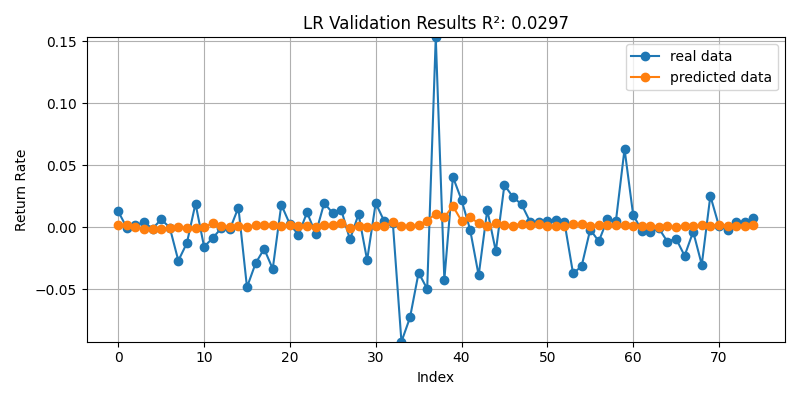
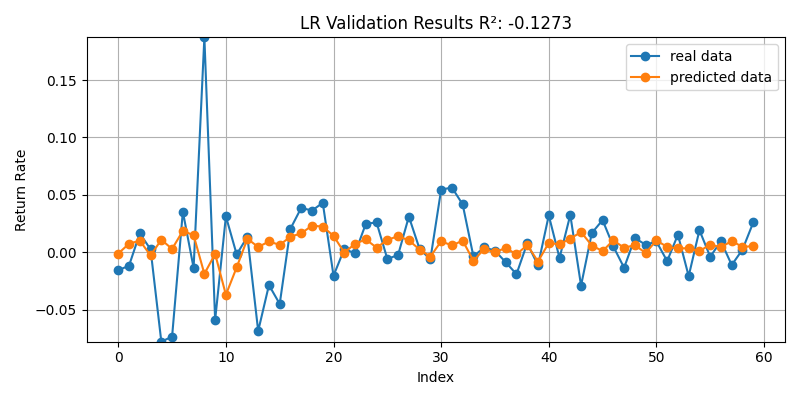
added indicators such as RSI, MACD, SMA.

diff --git a/Quant Research/features.py b/Quant Research/features.py
@@ -1,0 +1,38 @@
+import pandas as pd
+import pandas_ta as ta
+
+
+class FeatureEngineer:
+    def __init__(self, df: pd.DataFrame):
+
+        self.df = df.copy()
+
+    def add_momentum_indicators(self):
+        self.df['RSI_14'] = ta.rsi(self.df['Close'], length=14)
+
+        macd = ta.macd(self.df['Close'], fast=12, slow=26, signal=9)
+        self.df[['MACD_12_26_9', 'MACD_signal', 'MACD_hist']] = macd
+        return self
+
+    def add_volatility_indicators(self):
+        self.df['ATR_14'] = ta.atr(
+            self.df['High'], self.df['Low'], self.df['Close'], length=14)
+
+        return self
+
+    def add_trend_indicators(self):
+        self.df['SMA_20'] = ta.sma(self.df['Close'], length=20)
+        self.df['SMA_100'] = ta.sma(self.df['Close'], length=100)
+        self.df['SMA_ratio'] = self.df['SMA_20'] / self.df['SMA_100']
+
+        return self
+
+    def generate_features(self):
+        self.add_momentum_indicators()
+        self.add_volatility_indicators()
+        self.add_trend_indicators()
+
+        return self
+
+    def get_dataframe(self):
+        return self.df

diff --git a/Quant Research/main.py b/Quant Research/main.py
@@ -1,16 +1,17 @@
 from data_test import get_processed_stock_data
-from graph import plot
 import pandas as pd
 import numpy as np
+import pandas as pd
 from models.RandomForestResearchModel import RandomForestResearchModel
 from models.XGBoostResearchModel import XGBoostResearchModel
 from models.LinearRegressionResearchModel import LinearRegressionResearchModel
 from models.ArimaResearchModel import ArimaResearchModel
+from features import FeatureEngineer
 
 from sklearn.metrics import r2_score
 
 # configure ticker
-ticker = "AAPL"
+ticker = "NVDA"
 
 
 def process_data(
@@ -40,6 +41,10 @@ def process_data(
     else:
         # Assume the index already represents time; still enforce sort just in case
         df = df.sort_index()
+
+    # Feature Engineering
+    feature_engineer = FeatureEngineer(df)
+    df = feature_engineer.generate_features().get_dataframe()
 
     # Create lagged features for all columns except the target
     columns_to_lag = [col for col in df.columns if col != column_to_predict]
